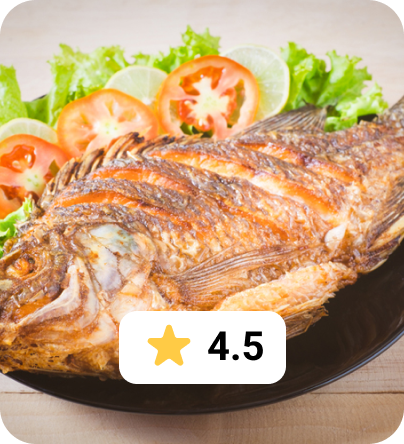
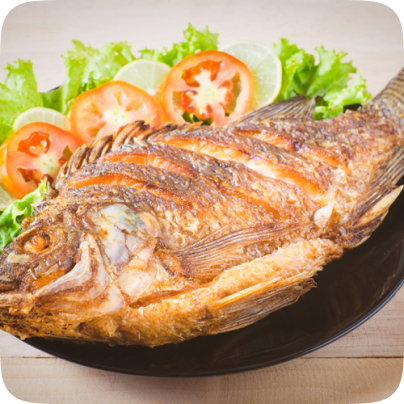
feat: update gambar baru, dan tambah detail menu

diff --git a/lib/model/menu_item.dart b/lib/model/menu_item.dart
@@ -18,12 +18,155 @@ class MenuItem {
 
 var menuItemList = [
   MenuItem(
-    name: 'Mie Gacoan, Genteng',
+    name: 'Ayam Goreng',
     description:
         '"Mie Gacoan" adalah sebuah merk dagang dari jaringan restaurant mie pedas no 1 di indonesia, yang menjadi anak perusahaan PT Pesta Pora Abadi.',
     price: 'Rp 25000',
     rating: 4,
-    imageAsset: 'images/farm-house.jpg',
+    imageAsset: 'assets/images/ayam.png',
+    imageUrls: [
+      'https://media-cdn.tripadvisor.com/media/photo-s/0d/7c/59/70/farmhouse-lembang.jpg',
+      'https://media-cdn.tripadvisor.com/media/photo-w/13/f0/22/f6/photo3jpg.jpg',
+      'https://media-cdn.tripadvisor.com/media/photo-m/1280/16/a9/33/43/liburan-di-farmhouse.jpg'
+    ],
+  ),
+  MenuItem(
+    name: 'Lele Goreng',
+    description:
+        '"Mie Gacoan" adalah sebuah merk dagang dari jaringan restaurant mie pedas no 1 di indonesia, yang menjadi anak perusahaan PT Pesta Pora Abadi.',
+    price: 'Rp 23000',
+    rating: 4,
+    imageAsset: 'assets/images/lele.png',
+    imageUrls: [
+      'https://media-cdn.tripadvisor.com/media/photo-s/0d/7c/59/70/farmhouse-lembang.jpg',
+      'https://media-cdn.tripadvisor.com/media/photo-w/13/f0/22/f6/photo3jpg.jpg',
+      'https://media-cdn.tripadvisor.com/media/photo-m/1280/16/a9/33/43/liburan-di-farmhouse.jpg'
+    ],
+  ),
+  MenuItem(
+    name: 'Gurame Goreng',
+    description:
+        '"Mie Gacoan" adalah sebuah merk dagang dari jaringan restaurant mie pedas no 1 di indonesia, yang menjadi anak perusahaan PT Pesta Pora Abadi.',
+    price: 'Rp 33000',
+    rating: 4,
+    imageAsset: 'assets/images/gurame.png',
+    imageUrls: [
+      'https://media-cdn.tripadvisor.com/media/photo-s/0d/7c/59/70/farmhouse-lembang.jpg',
+      'https://media-cdn.tripadvisor.com/media/photo-w/13/f0/22/f6/photo3jpg.jpg',
+      'https://media-cdn.tripadvisor.com/media/photo-m/1280/16/a9/33/43/liburan-di-farmhouse.jpg'
+    ],
+  ),
+  MenuItem(
+    name: 'Udang Goreng Krispi',
+    description:
+        '"Mie Gacoan" adalah sebuah merk dagang dari jaringan restaurant mie pedas no 1 di indonesia, yang menjadi anak perusahaan PT Pesta Pora Abadi.',
+    price: 'Rp 28000',
+    rating: 4,
+    imageAsset: 'assets/images/udang.png',
+    imageUrls: [
+      'https://media-cdn.tripadvisor.com/media/photo-s/0d/7c/59/70/farmhouse-lembang.jpg',
+      'https://media-cdn.tripadvisor.com/media/photo-w/13/f0/22/f6/photo3jpg.jpg',
+      'https://media-cdn.tripadvisor.com/media/photo-m/1280/16/a9/33/43/liburan-di-farmhouse.jpg'
+    ],
+  ),
+  MenuItem(
+    name: 'Tahu Tempe',
+    description:
+        '"Mie Gacoan" adalah sebuah merk dagang dari jaringan restaurant mie pedas no 1 di indonesia, yang menjadi anak perusahaan PT Pesta Pora Abadi.',
+    price: 'Rp 15000',
+    rating: 4,
+    imageAsset: 'assets/images/tahu.png',
+    imageUrls: [
+      'https://media-cdn.tripadvisor.com/media/photo-s/0d/7c/59/70/farmhouse-lembang.jpg',
+      'https://media-cdn.tripadvisor.com/media/photo-w/13/f0/22/f6/photo3jpg.jpg',
+      'https://media-cdn.tripadvisor.com/media/photo-m/1280/16/a9/33/43/liburan-di-farmhouse.jpg'
+    ],
+  ),
+  MenuItem(
+    name: 'Tumis Kangkung',
+    description:
+        '"Mie Gacoan" adalah sebuah merk dagang dari jaringan restaurant mie pedas no 1 di indonesia, yang menjadi anak perusahaan PT Pesta Pora Abadi.',
+    price: 'Rp 15000',
+    rating: 4,
+    imageAsset: 'assets/images/kangkung.png',
+    imageUrls: [
+      'https://media-cdn.tripadvisor.com/media/photo-s/0d/7c/59/70/farmhouse-lembang.jpg',
+      'https://media-cdn.tripadvisor.com/media/photo-w/13/f0/22/f6/photo3jpg.jpg',
+      'https://media-cdn.tripadvisor.com/media/photo-m/1280/16/a9/33/43/liburan-di-farmhouse.jpg'
+    ],
+  ),
+  MenuItem(
+    name: 'Terong Goreng',
+    description:
+        '"Mie Gacoan" adalah sebuah merk dagang dari jaringan restaurant mie pedas no 1 di indonesia, yang menjadi anak perusahaan PT Pesta Pora Abadi.',
+    price: 'Rp 13000',
+    rating: 4,
+    imageAsset: 'assets/images/terong.png',
+    imageUrls: [
+      'https://media-cdn.tripadvisor.com/media/photo-s/0d/7c/59/70/farmhouse-lembang.jpg',
+      'https://media-cdn.tripadvisor.com/media/photo-w/13/f0/22/f6/photo3jpg.jpg',
+      'https://media-cdn.tripadvisor.com/media/photo-m/1280/16/a9/33/43/liburan-di-farmhouse.jpg'
+    ],
+  ),
+  MenuItem(
+    name: 'Kol Goreng',
+    description:
+        '"Mie Gacoan" adalah sebuah merk dagang dari jaringan restaurant mie pedas no 1 di indonesia, yang menjadi anak perusahaan PT Pesta Pora Abadi.',
+    price: 'Rp 12000',
+    rating: 4,
+    imageAsset: 'assets/images/kol.png',
+    imageUrls: [
+      'https://media-cdn.tripadvisor.com/media/photo-s/0d/7c/59/70/farmhouse-lembang.jpg',
+      'https://media-cdn.tripadvisor.com/media/photo-w/13/f0/22/f6/photo3jpg.jpg',
+      'https://media-cdn.tripadvisor.com/media/photo-m/1280/16/a9/33/43/liburan-di-farmhouse.jpg'
+    ],
+  ),
+  MenuItem(
+    name: 'Nasi Putih',
+    description:
+        '"Mie Gacoan" adalah sebuah merk dagang dari jaringan restaurant mie pedas no 1 di indonesia, yang menjadi anak perusahaan PT Pesta Pora Abadi.',
+    price: 'Rp 6000',
+    rating: 4,
+    imageAsset: 'assets/images/nasi.png',
+    imageUrls: [
+      'https://media-cdn.tripadvisor.com/media/photo-s/0d/7c/59/70/farmhouse-lembang.jpg',
+      'https://media-cdn.tripadvisor.com/media/photo-w/13/f0/22/f6/photo3jpg.jpg',
+      'https://media-cdn.tripadvisor.com/media/photo-m/1280/16/a9/33/43/liburan-di-farmhouse.jpg'
+    ],
+  ),
+  MenuItem(
+    name: 'Es Jeruk',
+    description:
+        '"Mie Gacoan" adalah sebuah merk dagang dari jaringan restaurant mie pedas no 1 di indonesia, yang menjadi anak perusahaan PT Pesta Pora Abadi.',
+    price: 'Rp 8000',
+    rating: 4,
+    imageAsset: 'assets/images/es_jeruk.png',
+    imageUrls: [
+      'https://media-cdn.tripadvisor.com/media/photo-s/0d/7c/59/70/farmhouse-lembang.jpg',
+      'https://media-cdn.tripadvisor.com/media/photo-w/13/f0/22/f6/photo3jpg.jpg',
+      'https://media-cdn.tripadvisor.com/media/photo-m/1280/16/a9/33/43/liburan-di-farmhouse.jpg'
+    ],
+  ),
+  MenuItem(
+    name: 'Es Teh',
+    description:
+        '"Mie Gacoan" adalah sebuah merk dagang dari jaringan restaurant mie pedas no 1 di indonesia, yang menjadi anak perusahaan PT Pesta Pora Abadi.',
+    price: 'Rp 7000',
+    rating: 4,
+    imageAsset: 'assets/images/es_teh.png',
+    imageUrls: [
+      'https://media-cdn.tripadvisor.com/media/photo-s/0d/7c/59/70/farmhouse-lembang.jpg',
+      'https://media-cdn.tripadvisor.com/media/photo-w/13/f0/22/f6/photo3jpg.jpg',
+      'https://media-cdn.tripadvisor.com/media/photo-m/1280/16/a9/33/43/liburan-di-farmhouse.jpg'
+    ],
+  ),
+  MenuItem(
+    name: 'Air Mineral Aqua 250ml',
+    description:
+        '"Mie Gacoan" adalah sebuah merk dagang dari jaringan restaurant mie pedas no 1 di indonesia, yang menjadi anak perusahaan PT Pesta Pora Abadi.',
+    price: 'Rp 5000',
+    rating: 4,
+    imageAsset: 'assets/images/air.png',
     imageUrls: [
       'https://media-cdn.tripadvisor.com/media/photo-s/0d/7c/59/70/farmhouse-lembang.jpg',
       'https://media-cdn.tripadvisor.com/media/photo-w/13/f0/22/f6/photo3jpg.jpg',
